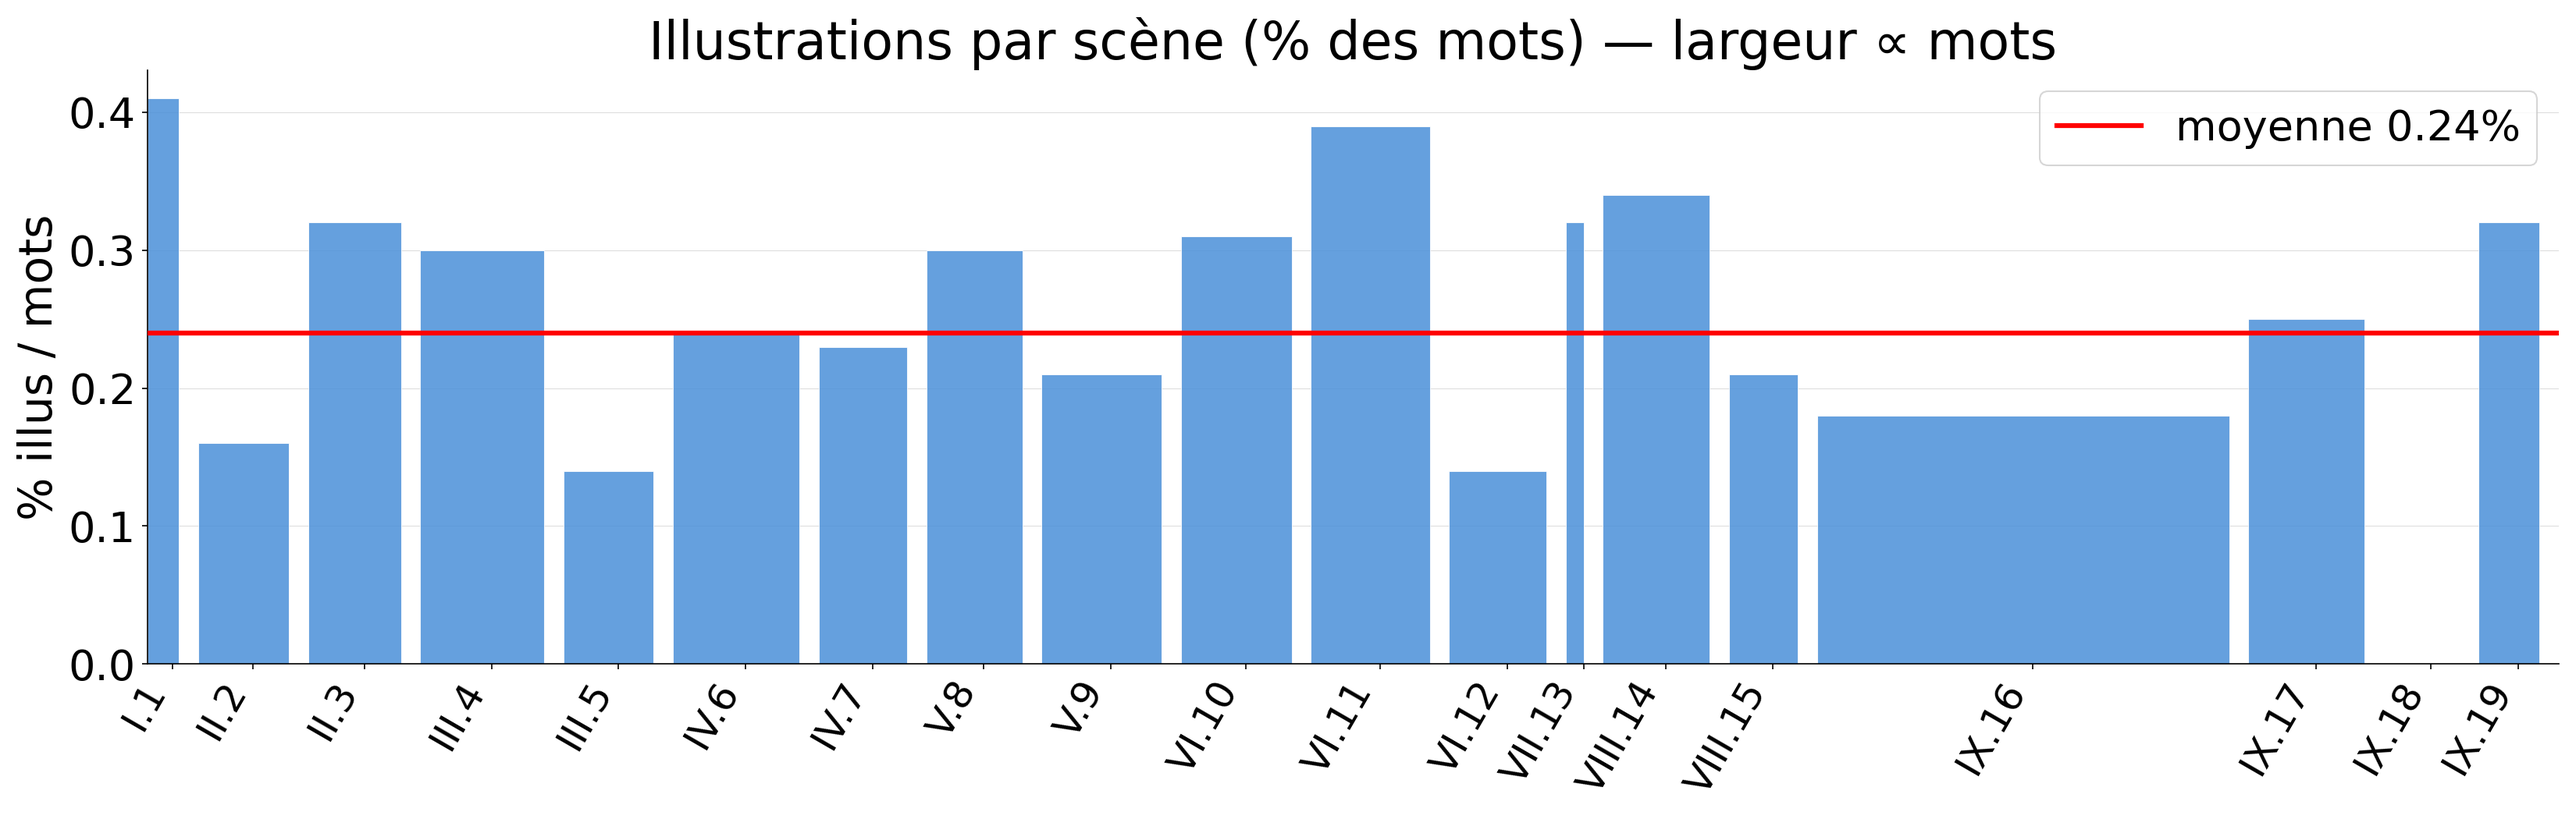
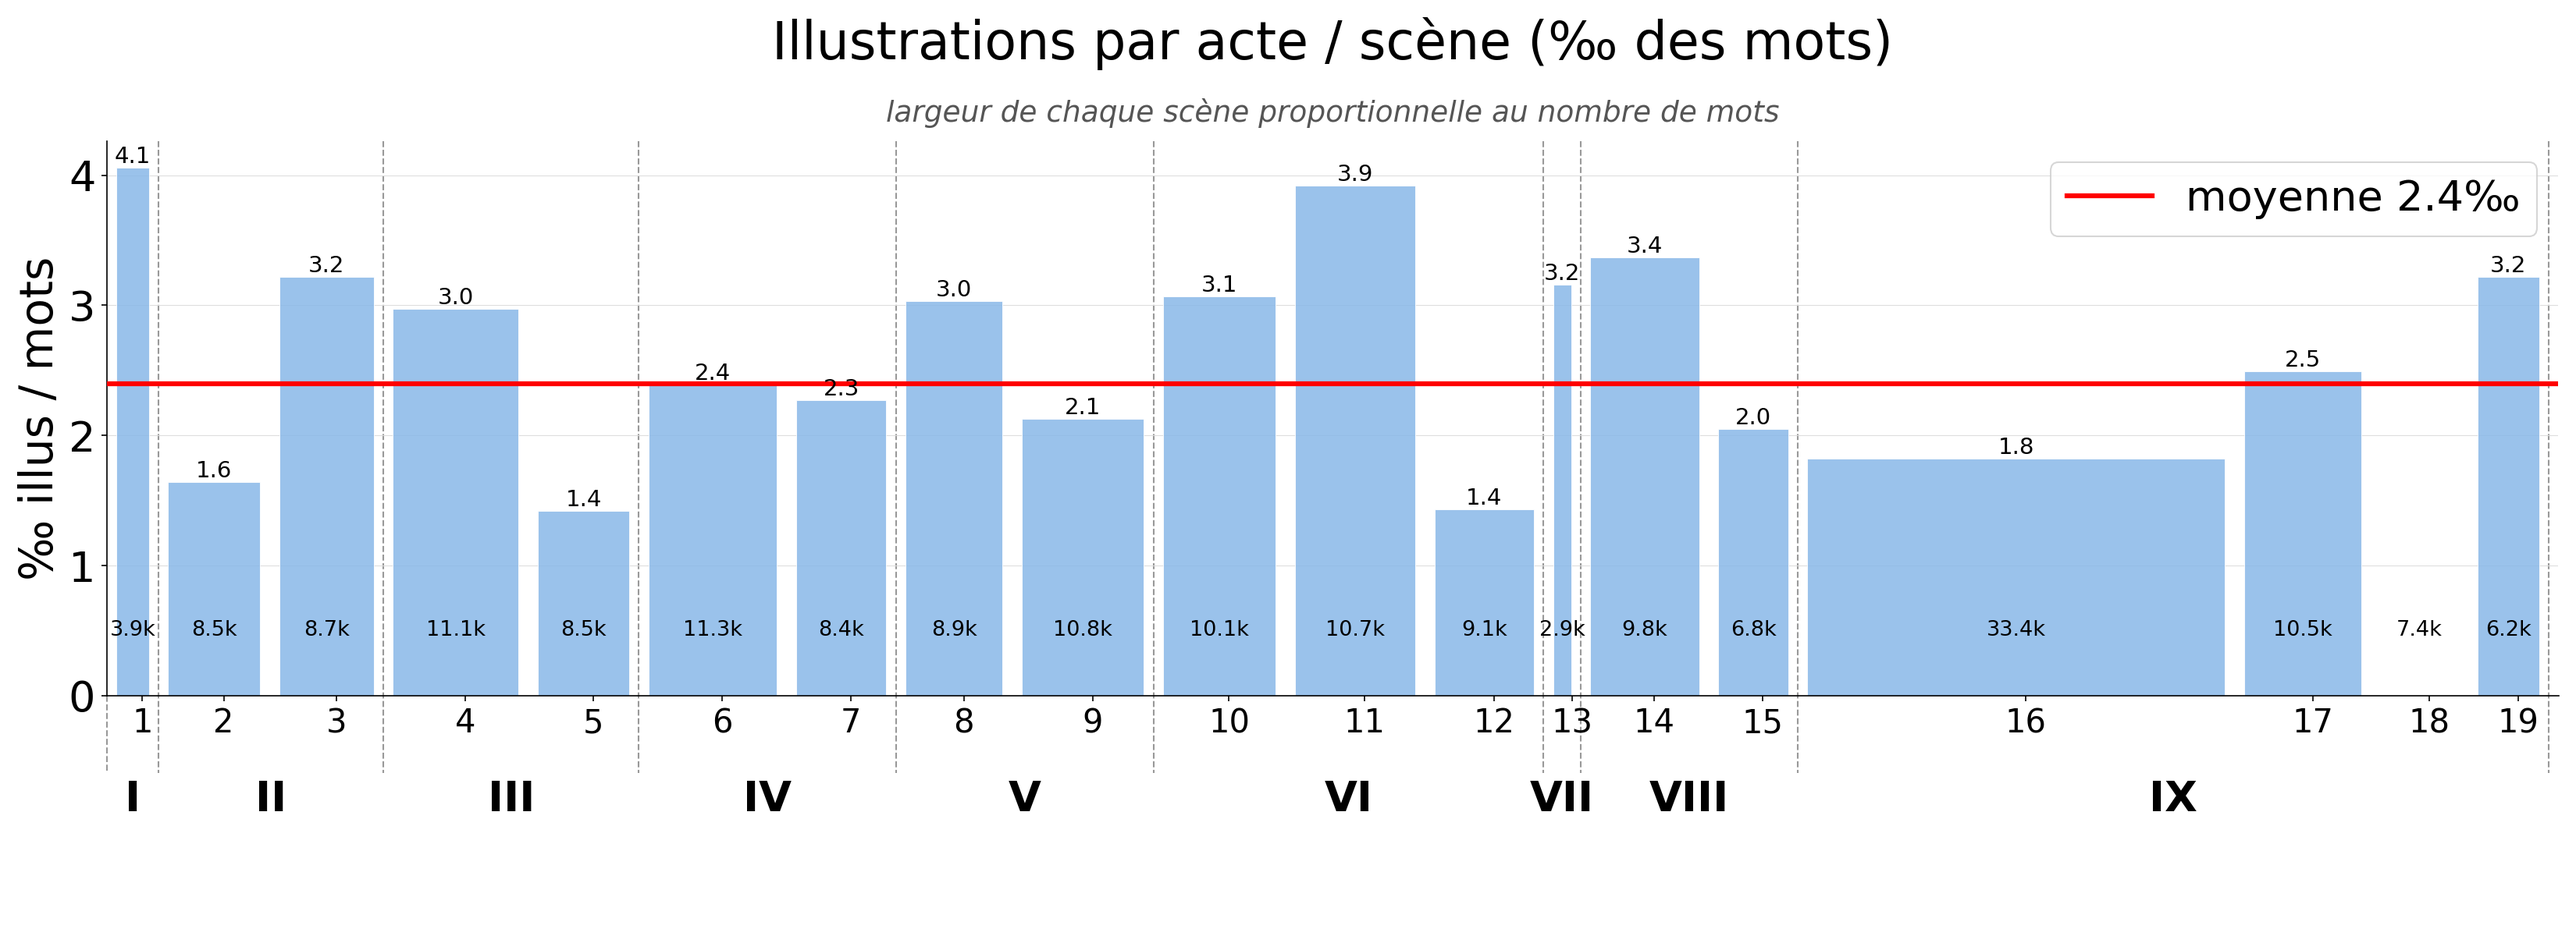
stats: Marimekko chart overhaul (acte separators, ‰, word counts, labels); acte_07 xylazine note

diff --git a/stats.py b/stats.py
@@ -359,12 +359,13 @@ def _png_illus_chart(rows_split: list) -> str:
         return ""
 
     scene_labels = [r[0] for r in rows_split]
-    values       = [round(r[4] / r[2] * 100, 2) if r[2] else 0.0 for r in rows_split]
+    acte_labels  = [r[1] for r in rows_split]
+    values       = [round(r[4] / r[2] * 1000, 2) if r[2] else 0.0 for r in rows_split]
     words        = [r[2] for r in rows_split]
 
     total_words = sum(words)
     total_illus = sum(r[4] for r in rows_split)
-    mean_val    = total_illus / total_words * 100 if total_words else 0.0
+    mean_val    = total_illus / total_words * 1000 if total_words else 0.0
 
     # Bar widths proportional to word count, scaled so total width = number of scenes
     scale      = len(rows_split)
@@ -372,27 +373,71 @@ def _png_illus_chart(rows_split: list) -> str:
     lefts      = [sum(rel_widths[:i]) for i in range(len(rel_widths))]
     centers    = [l + w / 2 for l, w in zip(lefts, rel_widths)]
 
-    fig, ax = plt.subplots(figsize=(22, 7))
-    gap = 0.15  # fixed inter-bar gap in scale units
+    fig, ax = plt.subplots(figsize=(22, 8))
+    gap    = 0.15          # fixed inter-bar gap in scale units
+    offset = gap / 2       # half-gap margin before first bar and after last bar
     bar_widths = [max(w - gap, gap * 0.5) for w in rel_widths]
-    for l, v, w in zip(lefts, values, bar_widths):
-        ax.bar(l, v, width=w, align="edge", color="#4a90d9", alpha=0.85,
+    # Shift all bars right by offset so first bar has gap/2 space from y-axis
+    for l, v, bw, wc in zip(lefts, values, bar_widths, words):
+        x_bar = l + offset
+        ax.bar(x_bar, v, width=bw, align="edge", color="#89b8e8", alpha=0.85,
                zorder=2, edgecolor="white", linewidth=0.5)
+        x_center = x_bar + bw / 2
+        # ‰ value at top of bar (skip zeros)
+        if v > 0:
+            ax.text(x_center, v, f"{v:.1f}", ha="center", va="bottom",
+                    fontsize=14, zorder=4)
+        # word count in K, vertical, centred between y=0 and y=1
+        ax.text(x_center, 0.5, f"{wc/1000:.1f}k", ha="center", va="center",
+                fontsize=13, color="black", zorder=4)
     ax.axhline(mean_val, color="red", linewidth=3.0, zorder=3,
-               label=f"moyenne {mean_val:.2f}%")
+               label=f"moyenne {mean_val:.1f}‰")
 
-    ax.set_xticks(centers)
-    ax.set_xticklabels(scene_labels, rotation=60, ha="right", fontsize=24)
-    ax.set_xlim(0, scale)
-    ax.set_ylabel("% illus / mots", fontsize=28)
-    ax.set_title("Illustrations par scène (% des mots) — largeur ∝ mots", fontsize=32)
+    # Scene labels: drop roman prefix (acte shown below), horizontal, shifted
+    short_labels = [lbl.split(".")[-1] for lbl in scene_labels]
+    ax.set_xticks([c + offset for c in centers])
+    ax.set_xticklabels(short_labels, rotation=0, ha="center", fontsize=20)
+
+    # Acte separators (including left and right sentinels) + labels
+    # Boundaries: 0, lefts[first-of-acte], …, scale+gap (right sentinel)
+    trans = ax.get_xaxis_transform()
+    y_line_top, y_line_bot, y_label = 1.0, -0.14, -0.15
+
+    boundaries = [0.0]
+    for i in range(1, len(acte_labels)):
+        if acte_labels[i] != acte_labels[i - 1]:
+            boundaries.append(lefts[i])   # = offset-shifted boundary midpoint
+    boundaries.append(float(scale))        # right sentinel (gap/2 past last bar)
+
+    actes_ordered = list(dict.fromkeys(acte_labels))  # unique, ordered
+
+    for x_sep in boundaries:
+        # Left sentinel overlaps y-axis: draw only the below-axes extension
+        y_top = 0.0 if x_sep == 0.0 else y_line_top
+        ax.plot([x_sep, x_sep], [y_top, y_line_bot], transform=trans,
+                clip_on=False, color="#999", linewidth=1.0, linestyle="--", zorder=0)
+
+    for k, acte in enumerate(actes_ordered):
+        x_mid = (boundaries[k] + boundaries[k + 1]) / 2
+        ax.annotate(acte, xy=(x_mid, y_label), xycoords=("data", "axes fraction"),
+                    ha="center", va="top", fontsize=26, fontweight="bold",
+                    annotation_clip=False)
+
+    ax.set_xlim(0, scale + offset)
+    ax.set_ylabel("‰ illus / mots", fontsize=28)
+    ax.set_title("Illustrations par acte / scène (‰ des mots)", fontsize=32, pad=50)
+    ax.annotate("largeur de chaque scène proportionnelle au nombre de mots",
+                xy=(0.5, 1.0), xycoords="axes fraction",
+                xytext=(0, 8), textcoords="offset points",
+                ha="center", va="bottom", fontsize=18, fontstyle="italic",
+                color="#555", annotation_clip=False)
     ax.tick_params(axis="y", labelsize=26)
     ax.legend(fontsize=26)
 
     ax.grid(axis="y", linewidth=0.5, color="#ddd", zorder=0)
     ax.spines["top"].set_visible(False)
     ax.spines["right"].set_visible(False)
-    plt.tight_layout()
+    plt.tight_layout(rect=[0, 0.08, 1, 1])
 
     import hashlib
     out = ROOT / "stats_illus_chart.png"

diff --git a/stats.md b/stats.md
@@ -26,7 +26,7 @@ Mots = texte original uniquement (hors contenu des notes `\nf{}`).
 | IX.19 | Il est toujours extrêmement douloureux de mettre… | 723 | 234 |   6 214 |   3.32% |  25.43% |    23 |  0.37% |            20 |  0.32% |
 | **Total** | |  |  | **186 925** | **100%** | **29.40%** | **1081** | **0.58%** | **448** | **0.24%** |
 
-![Illustrations par scène](stats_illus_chart.png?v=adce4612)
+![Illustrations par scène](stats_illus_chart.png?v=31d9a40a)
 
 # Statistiques par acte (avant découpage)
 
